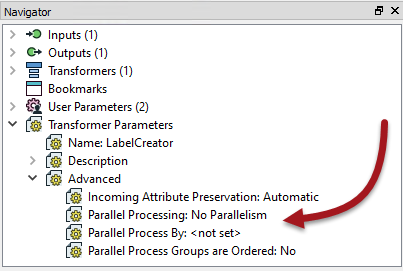
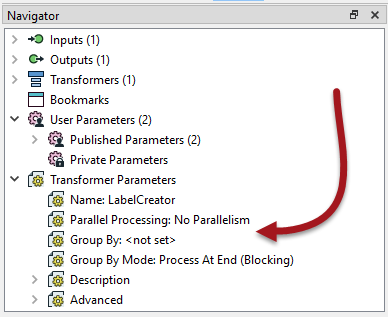
2019 Section 5.10 updates

Changed region(s): [[0.0, 0.0, 1.0, 1.0], [0.0619, 0.8561, 0.0928, 0.8856]]

diff --git a/DesktopAdvanced5CustomTransformers/5.10.ParallelProcessing.md b/DesktopAdvanced5CustomTransformers/5.10.ParallelProcessing.md
@@ -1,8 +1,30 @@
-## Custom Transformers and Parallel Processing ##
+## Parallel Processing ##
 
-Parallel Processing is a way to improve performance on high-end machines, by running multiple actions at once as a set of separate processes.
+Parallel Processing is a way to improve performance on high-end machines, by running multiple actions at once as a set of separate processes. A system architecture of multiple processors with multiple cores is useful because each process can be assigned to a different core. With multiple processes running on multiple cores, the whole translation can run several times quicker than it used to.
 
-Some FME transformers have parameters to implement parallel processing, but all custom transformers also have a mechanism to do this.
+
+### Parallel Processing and FME ###
+
+Parallel processing in FME covers not an entire workspace, but just a specific subsection of workspace. This is defined using a custom transformer, which is a natural method to subdivide a large translation.  
+
+Parallel processing is achieved by forming groups of features on the basis of attribute values, in a similar way to a Group-Based transformer. Each group is assigned to a separate process. 
+
+<table style="border-spacing: 0px">
+<tr>
+<td style="vertical-align:middle;background-color:darkorange;border: 2px solid darkorange">
+<i class="fa fa-quote-left fa-lg fa-pull-left fa-fw" style="color:white;padding-right: 12px;vertical-align:text-top"></i>
+<span style="color:white;font-size:x-large;font-weight: bold;font-family:serif">FME Lizard says…</span>
+</td>
+</tr>
+
+<tr>
+<td style="border: 1px solid darkorange">
+<span style="font-family:serif; font-style:italic; font-size:larger">
+To process multiple workspaces in parallel, you would use multiple engines on FME Server.</span>
+</td>
+</tr>
+</table>
+
 
 ### Activating Parallel Processing ###
 
@@ -10,30 +32,66 @@ Each custom transformer has a set of parameters - located in the Navigator windo
 
 ![](./Images/Img5.048.CTParallelOption.png)
 
-By default, these are set not to carry out parallel processing. However, when the author sets a level of parallelism then the Parallel Process By parameter becomes active, and a user parameter is created automatically:
 
-![](./Images/Img5.049.CTParallelOptionSet.png)
+#### Parallel Processing Levels ####
+
+The parameter that controls parallel processing allows different levels of effort to be applied. Each level specifies the number of processes to run simultaneously, in relation to the number of cores available:
+
+<table>
+<tr><th rowspan="2">Parameter</th><th rowspan="2">Processes</th><th colspan="3">Examples</th></tr>
+<tr><th>2 Cores</th><th>4 Cores</th><th>8 Cores</th></tr>
+<tr><td align="center">No parallelism</td><td align="center">1 Process</td><td align="center">1 Process</td><td align="center">1 Process</td><td align="center">1 Process</td></tr>
+<tr><td align="center">Minimal</td><td align="center">Cores / 2</td><td align="center">1 Process</td><td align="center">2 Processes</td><td align="center">4 Process</td></tr>
+<tr><td align="center">Moderate</td><td align="center">Cores x 1</td><td align="center">2 Processes</td><td align="center">4 Processes</td><td align="center">8 Process</td></tr>
+<tr><td align="center">Aggressive</td><td align="center">Cores x 1.5</td><td align="center">3 Processes</td><td align="center">6 Processes</td><td align="center">12 Process</td></tr>
+<tr><td align="center">Extreme</td><td align="center">Cores x 2</td><td align="center">4 Processes</td><td align="center">8 Processes</td><td align="center">16 Process</td></tr>
+</table>
+
+As in the above example, on a quad-core machine, minimal parallelism results in two simultaneous FME processes. Extreme parallelism would result in eight (assuming there *are* eight tasks that can be processed simultaneously).
+
+There is also a hard cap for each FME license level:
+
+<table>
+<tr><th rowspan="2">FME Edition</th><th rowspan="2">Process Cap</th><th colspan="3">Examples</th></tr>
+<tr><th>2 Cores</th><th>4 Cores</th><th>8 Cores</th></tr>
+<tr><td align="center">Base Edition</td><td align="center">4 processes</td><td align="center">Maximum 4 processes</td><td align="center">Max 4 processes</td><td align="center">Max 4 processes</td></tr>
+<tr><td align="center">Professional Edition</td><td align="center">8 processes</td><td align="center">Maximum 4 processes</td><td align="center">Max 8 processes</td><td align="center">Max 8 processes</td></tr>
+<tr><td align="center">All Other Editions</td><td align="center">16 processes</td><td align="center">Maximum 4 processes</td><td align="center">Max 8 processes</td><td align="center">Max 16 processes</td></tr>
+</table>
+
+So, if you have a Base Edition license, you are never going to get more than four processes at one time, regardless of machine type and the parallelism parameter. The quad-core machine in the above example can never have more than eight processes since that is the maximum that "extreme" parallel processing allows.
+
+<table style="border-spacing: 0px">
+<tr>
+<td style="vertical-align:middle;background-color:darkorange;border: 2px solid darkorange">
+<i class="fa fa-quote-left fa-lg fa-pull-left fa-fw" style="color:white;padding-right: 12px;vertical-align:text-top"></i>
+<span style="color:white;font-size:x-large;font-weight: bold;font-family:serif">FME Lizard says…</span>
+</td>
+</tr>
+
+<tr>
+<td style="border: 1px solid darkorange">
+<span style="font-family:serif; font-style:italic; font-size:larger">
+These numbers - we should note - are the maximum number of processes <strong>at any one time</strong>. It's possible to divide data into many more groups and process them separately, but they won't all occur simultaneously. For example, given a quad-core machine, moderate processing, and 20 groups of features; there will be a total of 20 processes, but only four will run at any one time. When one of the four finishes, a new one is started.
+</span>
+</td>
+</tr>
+</table>
 
 ---
 
-### Defining a Group ###
+#### Parallel Processing Groups ####
 
-Parallel processing groups are defined by attribute values; however, because of how parallel processing works in a custom transformer, you can’t just double-click this parameter and pick an attribute to use.
+The Parallel Process By parameter requires the author to select an attribute, and - as already covered - selecting attributes for a custom transformer parameter requires some consideration.
+
+In particular, this parameter is designed so that you cannot simply pick an attribute to use:
 
 ![](./Images/Img5.050.CTParallelParamNoAttrs.png)
 
-Instead, this parameter is published for the end-user to have access to it.
+Instead, this parameter (and one for Group By Mode) is published to make it available as one of the custom transformer parameters:
 
 ![](./Images/Img5.051.CTParallelOptionUserParam.png)
 
-If, as an author, I don’t want the end user to be setting the group-by, then what I can do is locate that published parameter, edit its definition, and unset the Published setting:
-
-![](./Images/Img5.052.CTParallelParamUncheckPublished.png)
-
-To set it myself I then expose the attribute I want to use and apply its user parameter to the Parallel Process By parameter:
-
-![](./Images/Img5.053.ParallelProcessByBeingSet.png)
-
 ---
 
 <table style="border-spacing: 0px">
@@ -47,10 +105,7 @@ To set it myself I then expose the attribute I want to use and apply its user pa
 <tr>
 <td style="border: 1px solid darkorange">
 <span style="font-family:serif; font-style:italic; font-size:larger">
-Are you using raster data?
-<br><br>Raster is an oddity in FME as most of the transformers do very little to the data. For example, the RasterResampler doesn’t actually resample the data; it just tags it as being resampled. The actual resampling is carried out when the data is written.
-<br><br>On the one hand, this is great for performance. It means – for example – if you resample then clip some raster data, FME knows to resample only data that falls inside the clip boundary, as the rest is ultimately going to be discarded.
-<br><br>On the other hand, it does mean that parallel processing doesn’t help performance that much, as most work occurs in the writers. That’s why few raster transformers have parallel processing options, and why it’s not worth doing in a custom transformer.
+Parallel Processing is most effective in two specific scenarios. The first scenario is a small number of groups, each with a large amount of processing to do. Parallel processing is less effective where there are a large number of small groups. Having said that, the second scenario is a large number of small tasks being offloaded elsewhere. For example, when features are being passed to a web service HTTPFetcher transformer, then it's most efficient to have FME fire off as many requests as it can, as quickly as possible.
 </span>
 </td>
 </tr>
@@ -58,41 +113,29 @@ Are you using raster data?
 
 ---
 
-CHAPTER 2 CONTENT MOVED TO HERE!
+### Parallel Processing and Custom Transformer Design ###
 
-# Parallel Processing
+The keys to parallel processing are designing a custom transformer to be a standalone subsection, and the definition of groups to be processed. 
 
-Parallel Processing is a way to improve performance on high-end machines.
+In essence, features are split into groups on reaching the custom transformer, processed as a separate action, then combined back into a single group on exiting the custom transformer.
 
-## What is Parallel Processing? ##
+It's important to be aware that because each group is processed independently, there can be no relationship between features in different groups. If features are related, and their results depend on each other, then they must be in the same group.
 
-Each FME translation is usually a single process (fme.exe) on your computer. Parallel processing is when you transform your data into several simultaneous processes. The fact that they run simultaneously means the whole translation can run several times quicker than it used to.
+The easiest way to think of this is that the Custom Transformer itself is a Group-Based transformer. Because it is a wrapper for all the individual FME transformers in the definition, it allows those transformers to operate in groups, even if they are Feature-Based.
 
-Parallel processing allows FME to make use of multiple cores on a computer. There are four levels of parallel processing in FME, and each maps to the number of cores in this way:
 
-<table>
-<tr><th>Parameter</th><th>Processes</th><th>Quad-Core Machine</th></tr>
-<tr><td align="center">No parallelism</td><td align="center">1 Process</td><td align="center">1 Process</td></tr>
-<tr><td align="center">Minimal</td><td align="center">Cores / 2</td><td align="center">2 Processes</td></tr>
-<tr><td align="center">Moderate</td><td align="center">Cores</td><td align="center">4 Processes</td></tr>
-<tr><td align="center">Aggressive</td><td align="center">Cores x 1.5</td><td align="center">6 Processes</td></tr>
-<tr><td align="center">Extreme</td><td align="center">Cores x 2</td><td align="center">8 Processes</td></tr>
-</table>
+#### Creating Artificial Groups ####
 
-So, as in the above example, on a quad-core machine, minimal parallelism results in two simultaneous FME processes. Extreme parallelism would result in eight (assuming there *are* eight tasks that can be processed simultaneously).
+Sometimes none of the incoming data is related to each other, and can be split into arbitrary groups for processing. In these cases, where there is no identifier to define groups, one can be created manually by generating attributes with the ModuloCounter or RandomNumberGenerator transformers.
 
-There is also a hard cap for each license level:
+For example, here the workspace author has a large number of address features from which to create labels. To speed the process they activate parallel processing:
 
-<table>
-<tr><th>FME Edition</th><th>Process Cap</th><th>Quad-Core Machine</th></tr>
-<tr><td align="center">Base Edition</td><td align="center">4 processes</td><td align="center">Maximum 4 processes</td></tr>
-<tr><td align="center">Professional Edition</td><td align="center">8 processes</td><td align="center">Maximum 8 processes</td></tr>
-<tr><td align="center">All Other Editions</td><td align="center">16 processes</td><td align="center">Maximum 8 processes</td></tr>
-</table>
+![](./Images/Img5.049.ParallelProcessingModuloCount.png)
 
-So, if you have a Base Edition license, you are never going to get more than four processes at one time, regardless of machine type and the parallelism parameter. The quad-core machine in the above example can never have more than eight processes since that is the maximum 'extreme' parallel processing allows.
+They could group by PostalCode, but choose not to because all addresses fall inside only one of two postal codes. Therefore they create an artificial group using the ModuloCounter. Note the Group By parameter in the custom transformer is set to the *&#95;modulo&#95;count* attribute:
 
-----
+In such a scenario, it's best to create only as many groups as there are going to be processes. For example, on a quad-core (four core) computer, with an FME Professional license and Extreme parallel processing, a maximum of eight processes at a time are permitted. Therefore - as shown here - the optimum number of groups to use is also eight.  
+
 
 <table style="border-spacing: 0px">
 <tr>
@@ -105,55 +148,7 @@ So, if you have a Base Edition license, you are never going to get more than fou
 <tr>
 <td style="border: 1px solid darkorange">
 <span style="font-family:serif; font-style:italic; font-size:larger">
-Parallel Processing is very effective when you are offloading a task elsewhere – for example calling a Server with the HTTPFetcher – as each process is a tiny impact on the FME system resources. However, be aware, each parallel process involves starting and stopping an FME engine, and this takes time. So, don’t parallelize your processes when the task already takes less than the time to stop/start FME!
-</span>
-</td>
-</tr>
-</table>
-
----
-
-## Transformers and Parallel Processing ##
-
-A number of FME transformers have built-in options for parallel processing. Parallel processes work on groups of features, so the transformer must be group-based and have a group-by parameter for the user to define the parallel processing groups.
-
-For example, this Bufferer transformer is set up to buffer a set of street features:
-
-![](./Images/Img2.042.ParallelProcessingBuffererExample.png)
-
-Each street (i.e., each feature with the same street name) is processed as a separate group. To speed up the translation, each group is handled as a separate process (sadly the user cannot confirm that the source data is already ordered by group, which could improve performance even more).
-
-When a translation is run in parallel mode, then a number of “worker” processes appear in your process manager:
-
-![](./Images/Img2.043.ParallelProcessingWorkers.png)
-
-
-## Parallel Processing Groups ##
-
-Best performance gains occur with a small number of groups and a large amount of data. With many groups and only a few features, then performance gains will not be large and, in fact, the whole process might even be slower.
-
-Because each group is processed independently, there can be no relationship between features in different groups. If features are related, and their results depend on each other, then they must be in the same group.
-
-However, if **all** data is unrelated and the contents of the group are unimportant, then it’s possible to make artificial groups using a ModuloCounter or RandomNumberGenerator transformer.
-
-For example, here the user has a large number of line features to buffer (separately) and uses a ModuloCounter to assign them to one of four groups for parallel processing. Note the Group By parameter in the Bufferer is set to the *&#95;modulo&#95;count* attribute:
-
-![](./Images/Img2.044.ParallelProcessingModuloCount.png)
-
----
-
-<table style="border-spacing: 0px">
-<tr>
-<td style="vertical-align:middle;background-color:darkorange;border: 2px solid darkorange">
-<i class="fa fa-quote-left fa-lg fa-pull-left fa-fw" style="color:white;padding-right: 12px;vertical-align:text-top"></i>
-<span style="color:white;font-size:x-large;font-weight: bold;font-family:serif">FME Lizard says…</span>
-</td>
-</tr>
-
-<tr>
-<td style="border: 1px solid darkorange">
-<span style="font-family:serif; font-style:italic; font-size:larger">
-See <strong><a href="https://blog.safe.com/2016/12/parallel-processing-tips-evangelist159/">this blog article</a></strong> for more information about - and some special techniques for - generating parallel processing groups.
+See <strong><a href="https://blog.safe.com/2016/12/parallel-processing-tips-evangelist159/">this blog article</a></strong> for more information about - and some special techniques for - generating parallel processing groups. It's particularly useful for a custom transformer with multiple input ports.
 </span>
 </td>
 </tr>
